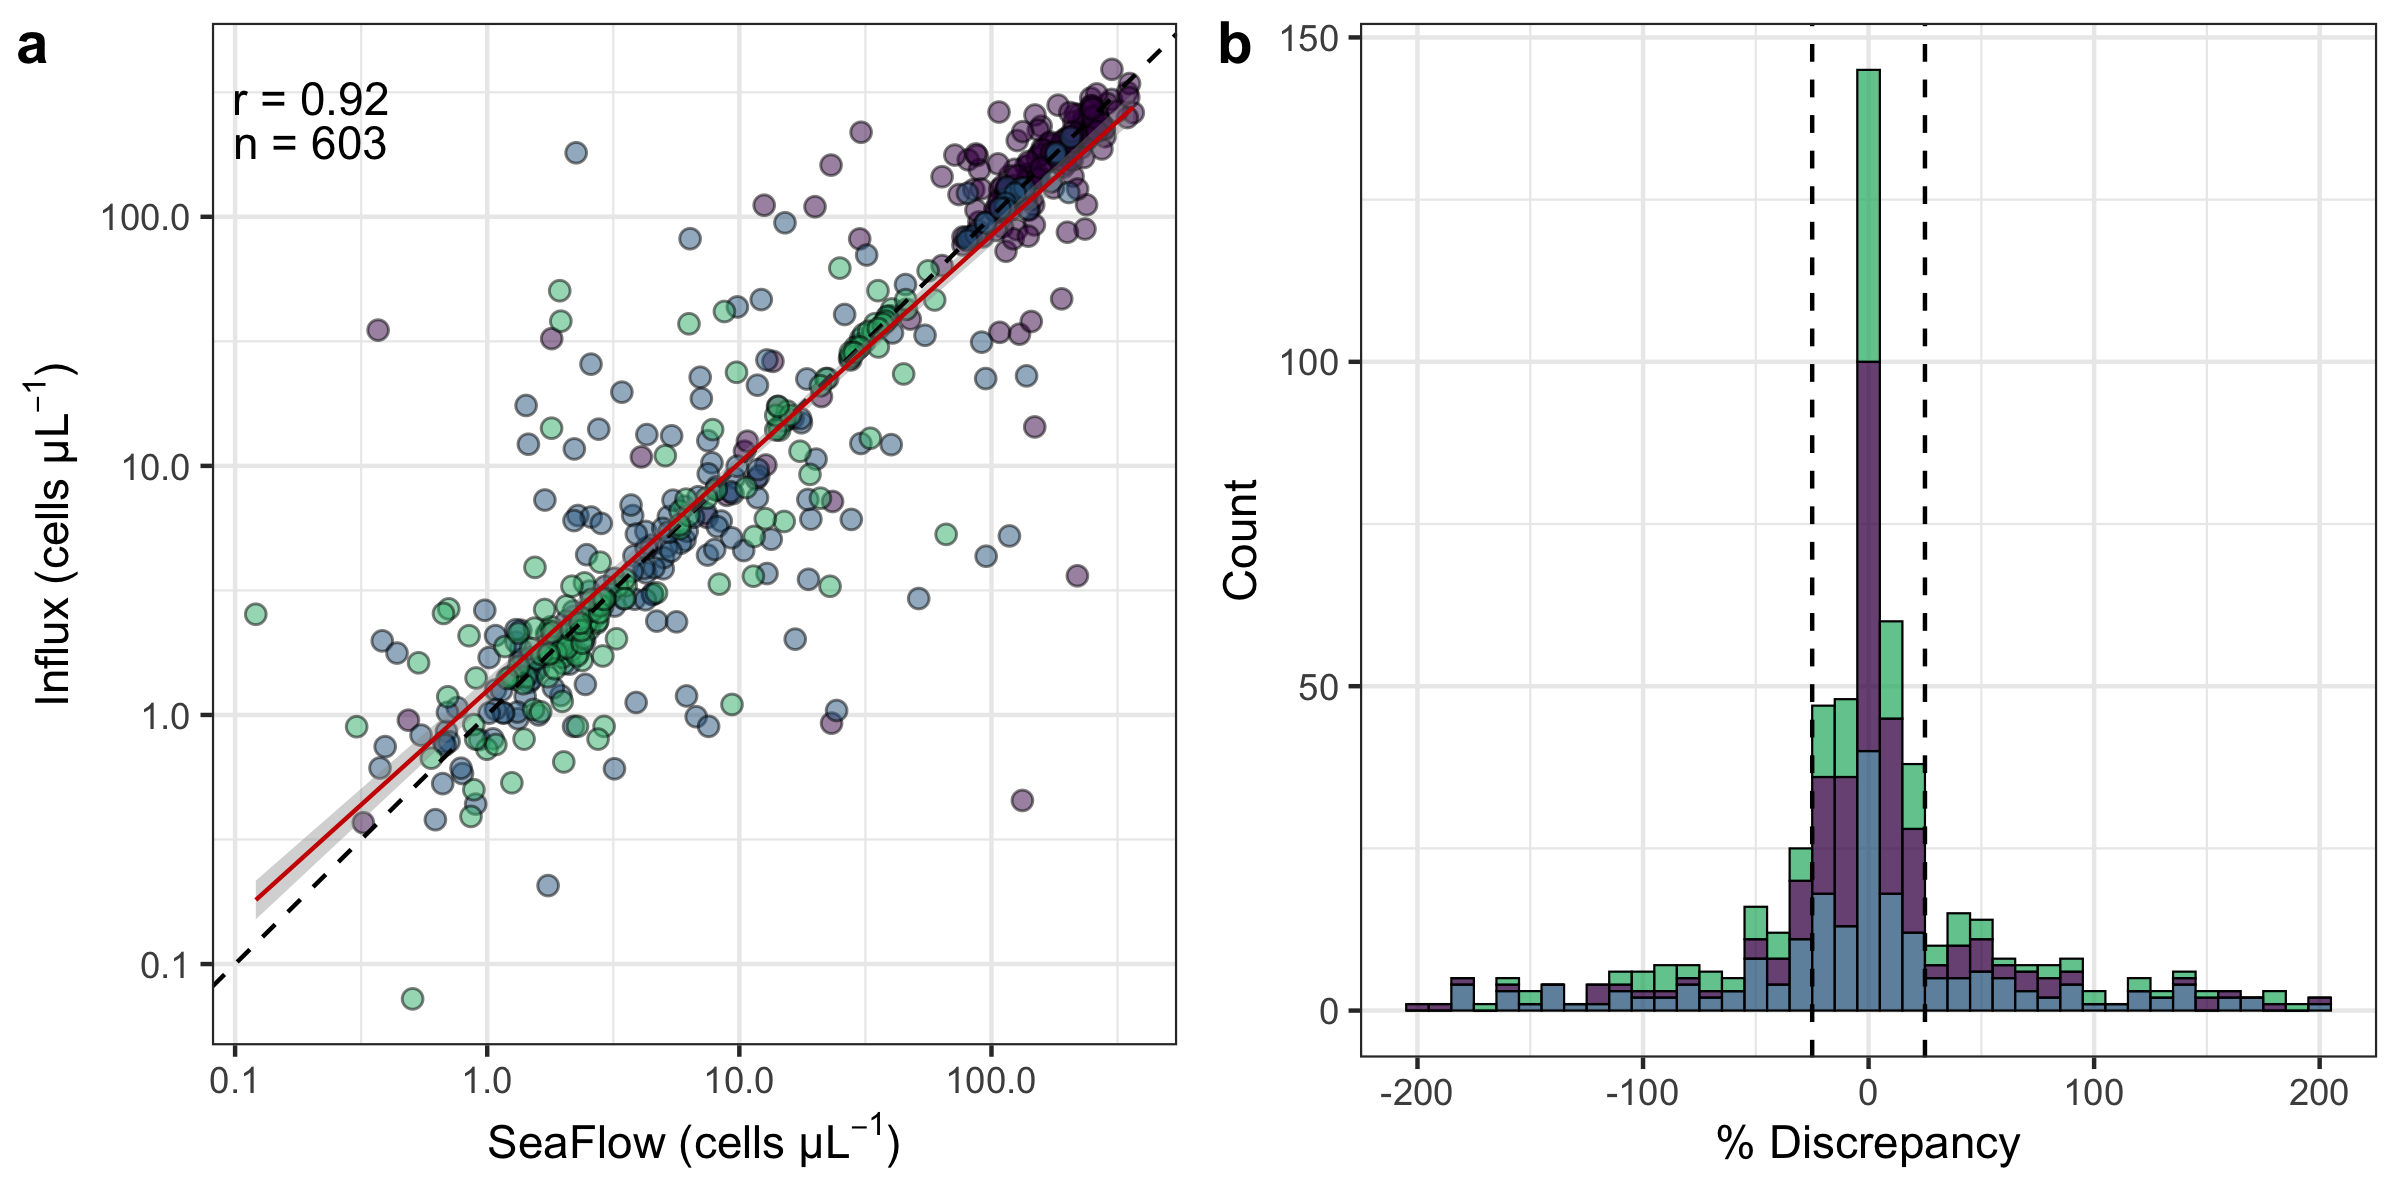
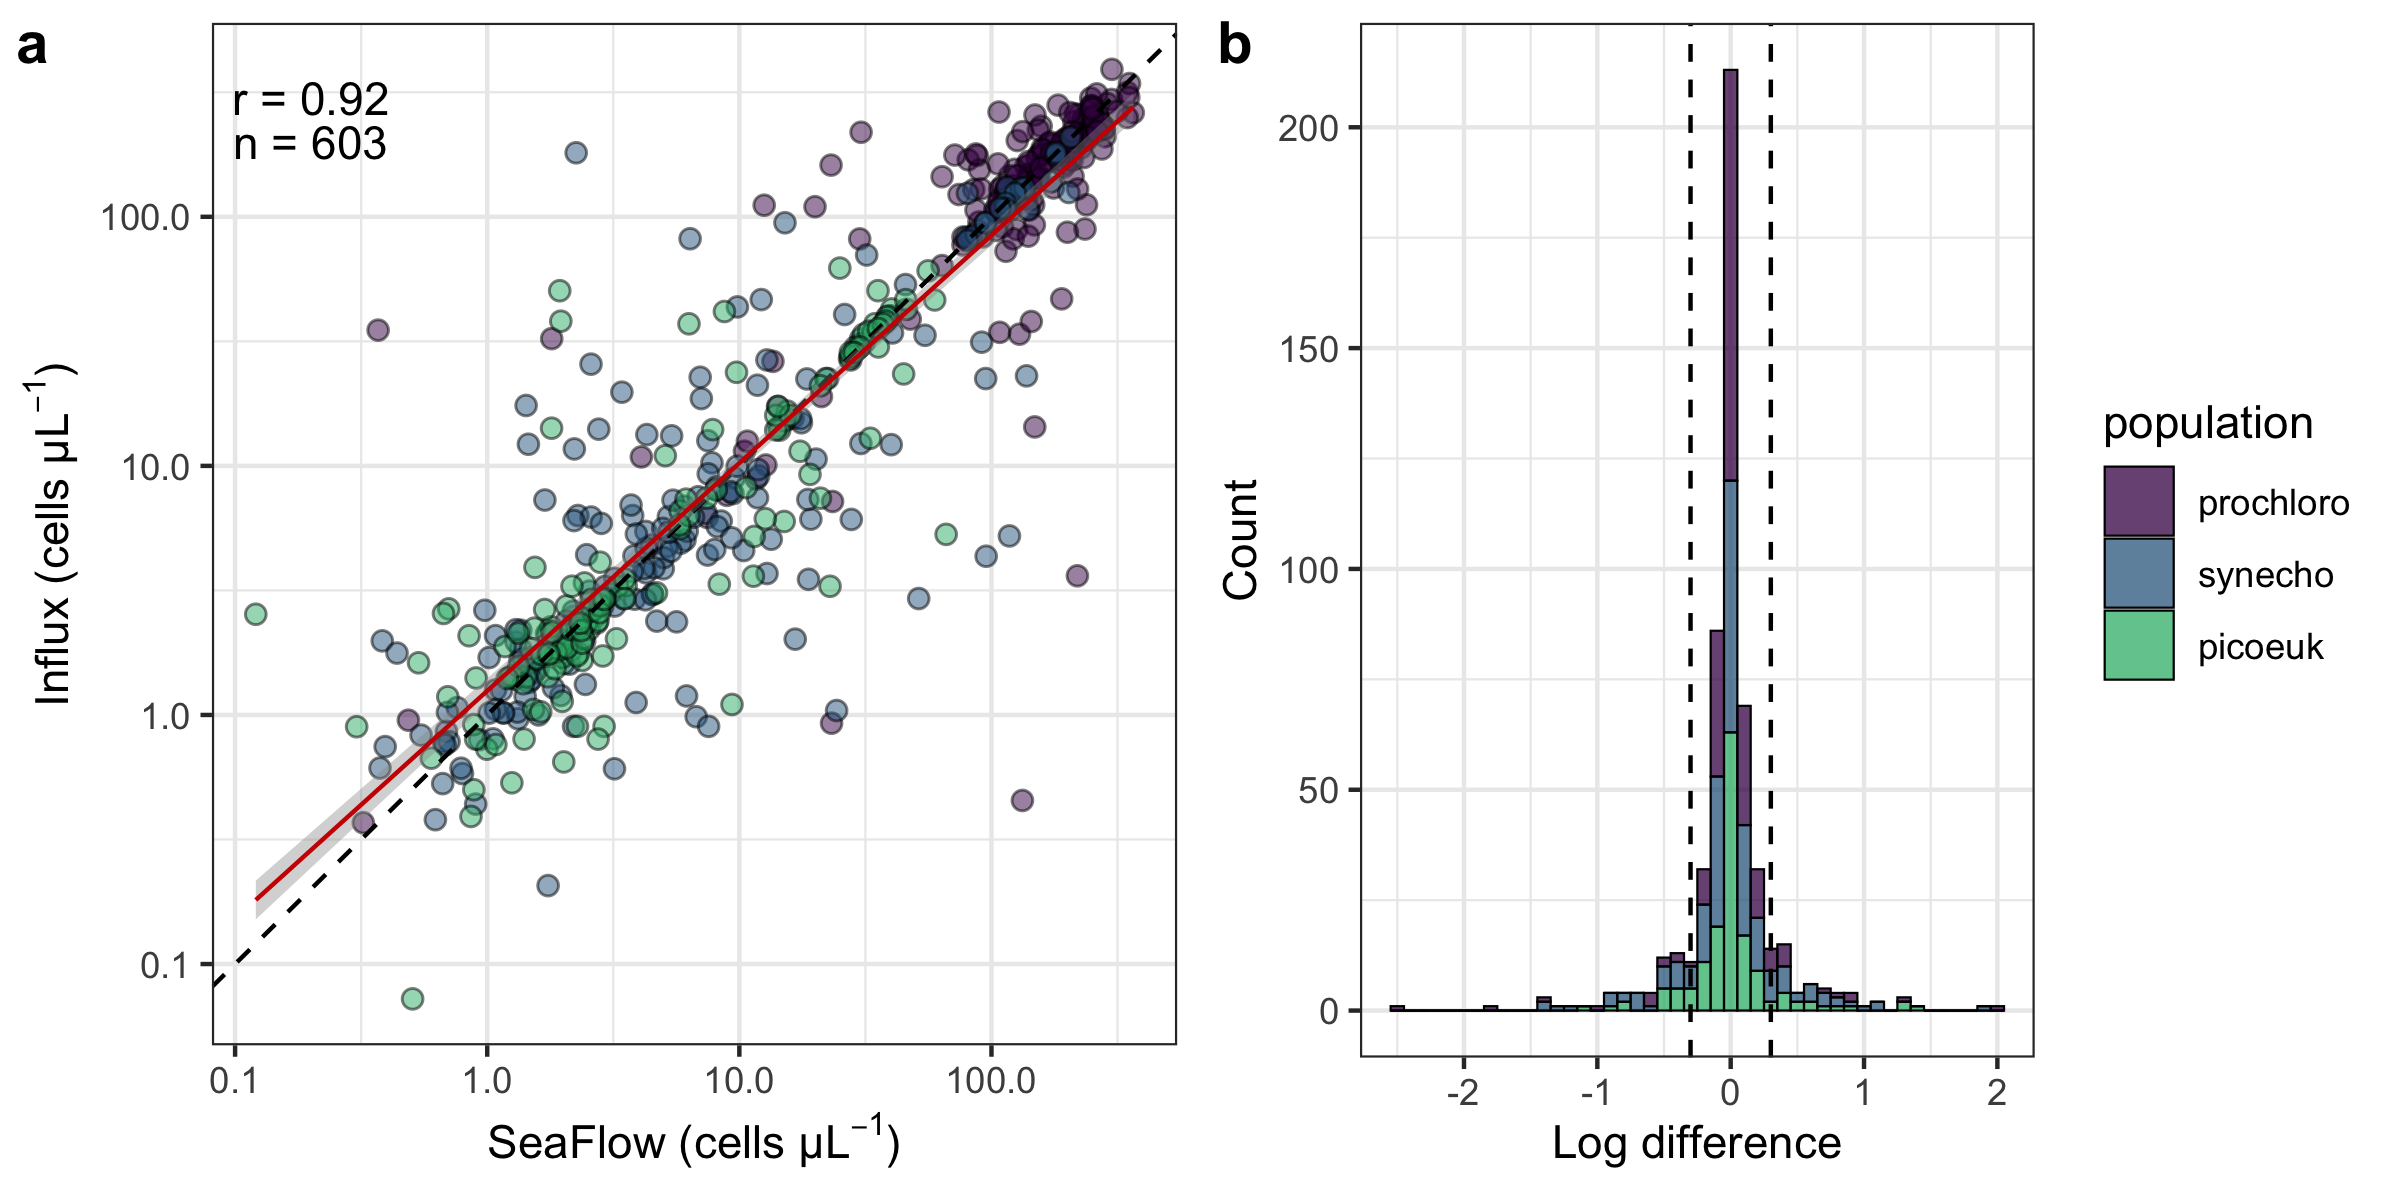
change x label of panel fig1 b

diff --git a/README.md b/README.md
@@ -3,7 +3,7 @@ SeaFlow is an underway flow cytometer developed for continuous real-time observa
 
 ![alt text](2.cruise_calibration/SeaFlowInflux-correlation-v2.png "Comparison of cell count for Prochlorococcus, Synechococcus and picoeukaryotes obtained by SeaFlow and Influx flow cytometer")
 
-Comparison of cell counts. a) Abundance of <i>Prochlorococcus</i>, <i>Synechococcus</i> and picoeukaryotes obtained with SeaFlow were compared with those obtained with a BD Influx flow cytometer. Note that samples analyzed with the Influx were not taken directly from the SeaFlow outflow and were fixed with 0.01% glutaraldehyde, stored in liquid nitrogen, and analyzed with the Influx no later than 6 months after collection. Model I linear regression (red line), Pearson’s coefficient of correlation (r), number of observations (n), dash line representing the 1:1 slope are shown. b) Frequency distribution of percent discrepancy in abundance estimates between the two instruments, dashed lines representing the 25\% discrepancy.
+Comparison of cell counts. a) Abundance of <i>Prochlorococcus</i>, <i>Synechococcus</i> and picoeukaryotes obtained with SeaFlow were compared with those obtained with a BD Influx flow cytometer. Note that samples analyzed with the Influx were not taken directly from the SeaFlow outflow and were fixed with 0.01\% glutaraldehyde, stored in liquid nitrogen, and analyzed with the Influx no later than 6 months after collection. Model I linear regression (red line), Pearson’s coefficient of correlation (r), number of observations (n), dash line representing the 1:1 slope are shown. b) Log difference in abundance estimates between the two instruments, dashed lines representing a 2 fold difference.
 
 
 ![alt text](2.cruise_calibration/SeaFlowInflux-CRUISEcomparison.png "Comparison of cell count for Prochlorococcus, Synechococcus and picoeukaryotes for each cruise obtained by SeaFlow and Influx flow cytometer")
